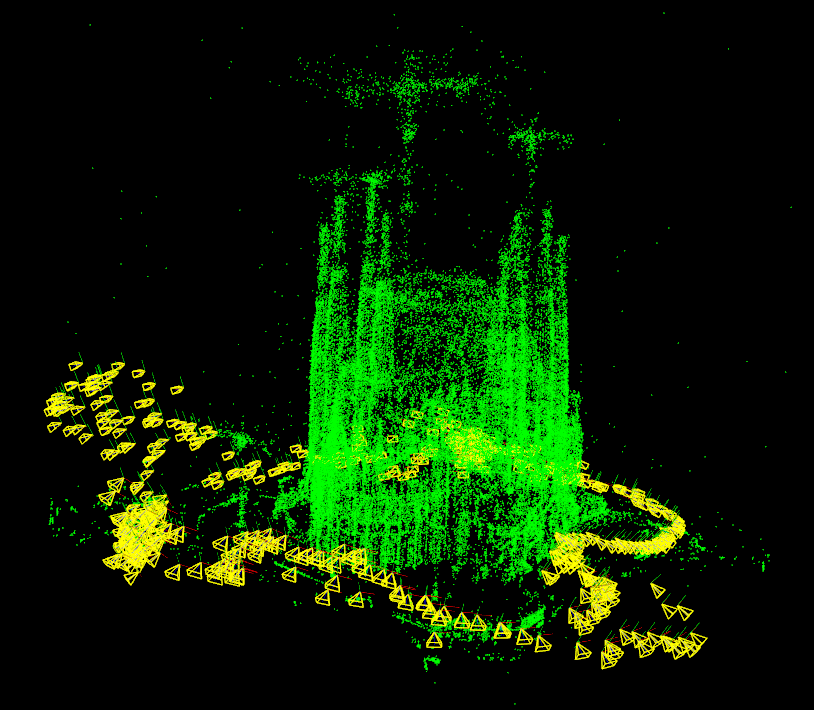
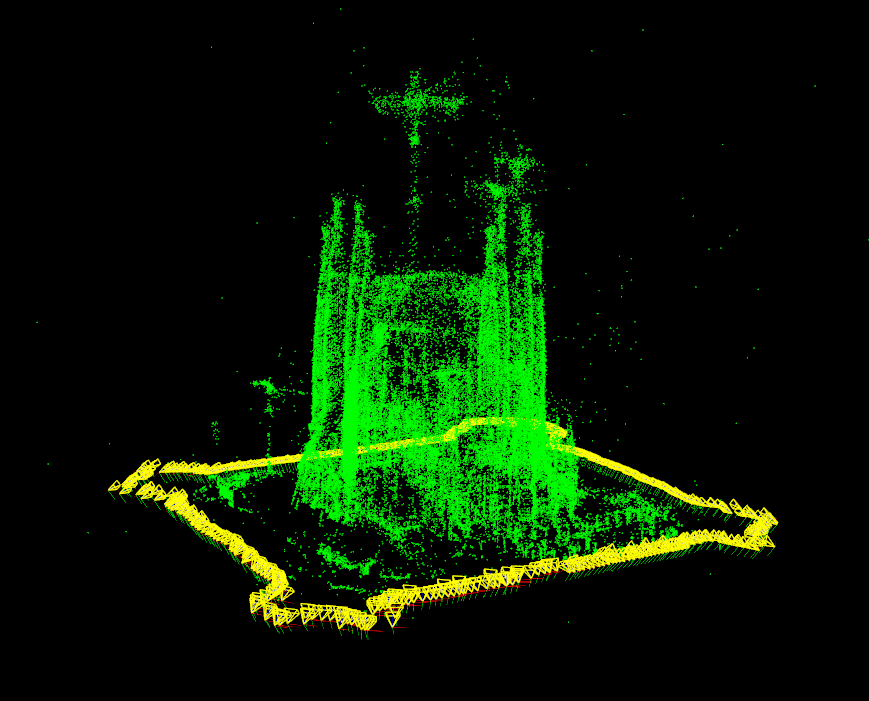
fix rotation issue + small docs errors

diff --git a/modules/sfm/src/io/io_bundler.h b/modules/sfm/src/io/io_bundler.h
@@ -1,6 +1,8 @@
 /*
  Based on TheiaSfM library.
- Adapted Edgar Riba <edgar.riba@gmail.com>
+ https://github.com/sweeneychris/TheiaSfM/blob/master/src/theia/io/read_bundler_files.cc
+
+ Adapted by Edgar Riba <edgar.riba@gmail.com>
 
 */
 
@@ -58,6 +60,8 @@ bool readBundlerFile(const std::string &file,
     return false;
   }
 
+  const cv::Matx33d bundler_to_opencv(1, 0, 0, 0, -1, 0, 0, 0, -1);
+
   std::string header_string;
   std::getline(ifs, header_string);
 
@@ -80,9 +84,9 @@ bool readBundlerFile(const std::string &file,
     p = internal_params.c_str();
     const double focal_length = strtod(p, &p2);
     p = p2;
-    const double k1 = strtod(p, &p2);
+    //const double k1 = strtod(p, &p2);
     p = p2;
-    const double k2 = strtod(p, &p2);
+    //const double k2 = strtod(p, &p2);
     p = p2;
 
     cv::Matx33d intrinsics;
@@ -102,8 +106,6 @@ bool readBundlerFile(const std::string &file,
       }
     }
 
-    Rs.push_back(rotation);
-
     std::string translation_string;
     std::getline(ifs, translation_string);
     p = translation_string.c_str();
@@ -112,6 +114,14 @@ bool readBundlerFile(const std::string &file,
       translation(j) = strtod(p, &p2);
       p = p2;
     }
+
+    rotation = bundler_to_opencv * rotation;
+    translation =  bundler_to_opencv * translation;
+
+    cv::Matx33d rotation_t = rotation.t();
+    translation = -1.0 * rotation_t * translation;
+
+    Rs.push_back(rotation);
     Ts.push_back(translation);
 
     if ((i + 1) % 100 == 0 || i == num_cameras - 1) {
@@ -154,14 +164,14 @@ bool readBundlerFile(const std::string &file,
     // Reserve the view list for this 3D point.
     for (int j = 0; j < num_views; j++) {
       // Camera key x y
-      const int camera_index = strtol(p, &p2, 10);
+      //const int camera_index = strtol(p, &p2, 10);
       p = p2;
       // Returns the index of the sift descriptor in the camera for this track.
       strtol(p, &p2, 10);
       p = p2;
-      const float x_pos = strtof(p, &p2);
+      //const float x_pos = strtof(p, &p2);
       p = p2;
-      const float y_pos = strtof(p, &p2);
+      //const float y_pos = strtof(p, &p2);
       p = p2;
 
     }

diff --git a/modules/sfm/include/opencv2/sfm/io.hpp b/modules/sfm/include/opencv2/sfm/io.hpp
@@ -68,7 +68,7 @@ enum {
   @param Ts Output vector of 3x1 translations of the camera.
   @param Ks Output vector of 3x3 instrinsics of the camera.
   @param points3d Output array with 3d points. Is 3 x N.
-  @param file_format The format of the file the import.
+  @param file_format The format of the file to import.
 
   The function supports reconstructions from Bundler.
 */
